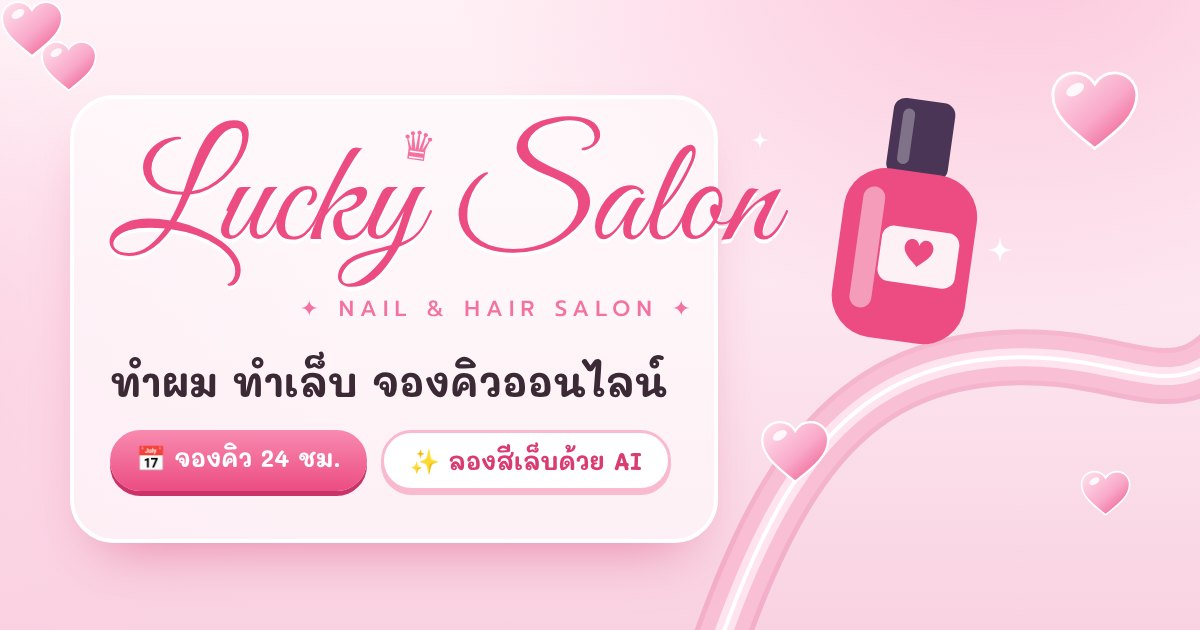
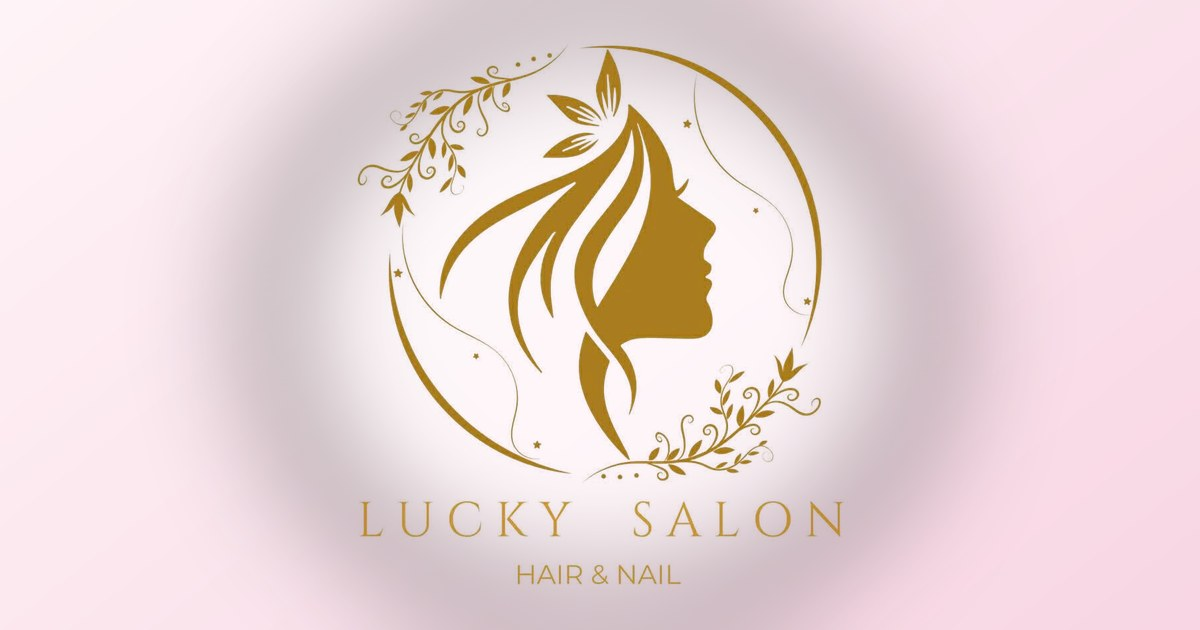
ใส่โลโก้จริงของร้าน (ตัดพื้นหลังแล้ว) ทั้งเว็บ
- logo-mark.png (ตราอย่างเดียว) และ logo-full.png (มีชื่อร้าน) ตัดพื้นหลังครีมออกเป็นโปร่งใส
- หัวเว็บ/ท้ายเว็บ: ตราอยู่หน้าชื่อ "Lucky Salon" ตัวเขียน บรรทัดรองเป็น "Hair & Nail Salon" ตามโลโก้
- หน้าเปิด (splash): ใช้ตราจริงแทนมงกุฎ
- favicon, apple-touch-icon, icon-192/512, logo.jpg (ใช้ในหน้าแอดมิน) เป็นตราบนพื้นครีม
- og-image.jpg (รูปตอนแชร์ลิงก์) เป็นโลโก้เต็มบนพื้นชมพู
- บันทึกโลโก้ไว้ใน PRODUCT.md / DESIGN.md

Claude-Session: https://claude.ai/code/session_01Jc27v77ocDtkRMsAGC5uLq

diff --git a/frontend/src/components/BrandLogo.jsx b/frontend/src/components/BrandLogo.jsx
@@ -1,17 +1,18 @@
-import { Crown } from './Decor.jsx'
-// โลโก้ร้าน: ชื่อ Lucky Salon ตัวเขียน มีมงกุฎเล็ก ๆ และบรรทัดรองด้านล่าง
+// โลโก้ร้าน: ตราจริงของร้าน (ผู้หญิงผมยาวในวงกลมใบไม้ สีทอง) + ชื่อ Lucky Salon ตัวเขียน + บรรทัดรอง
 // ใช้ร่วมกันทุกหน้า (หัวกระดาษ ท้ายเว็บ) จะได้หน้าตาเหมือนกันทั้งเว็บ
-export default function BrandLogo({ subtitle = 'Nail & Hair Salon', size = 'md' }) {
-  const word = size === 'sm' ? 'text-[2rem]' : 'text-[1.9rem] sm:text-[2.3rem]'
+// ไฟล์ตรา: public/logo-mark.png (ตัดพื้นหลังแล้ว) และ public/logo-full.png (มีชื่อร้านด้านล่าง)
+export default function BrandLogo({ subtitle = 'Hair & Nail Salon', size = 'md' }) {
+  const word = size === 'sm' ? 'text-[1.9rem]' : 'text-[1.8rem] sm:text-[2.2rem]'
+  const mark = size === 'sm' ? 'h-12 w-12' : 'h-12 w-12 sm:h-14 sm:w-14'
   return (
-    <span className="relative inline-flex flex-col items-start leading-none select-none">
-      <span aria-hidden="true" className="absolute -top-2.5 left-[62%] w-4 text-rose-400 rotate-[8deg]"><Crown className="w-full" /></span>
-      <span className={`font-script ${word} text-[#D6336C] drop-shadow-[0_2px_0_rgba(255,255,255,0.9)]`}>Lucky Salon</span>
-      {subtitle && (
-        <span className="mt-0.5 ml-auto pr-1 text-[11px] text-[#7A4A5E] whitespace-nowrap">
-          {subtitle}
-        </span>
-      )}
+    <span className="inline-flex items-center gap-2 leading-none select-none">
+      <img src="/logo-mark.png" alt="" aria-hidden="true" width="56" height="56" className={`${mark} shrink-0 drop-shadow-[0_2px_4px_rgba(255,255,255,0.9)]`} />
+      <span className="inline-flex flex-col items-start">
+        <span className={`font-script ${word} text-[#D6336C] drop-shadow-[0_2px_0_rgba(255,255,255,0.9)]`}>Lucky Salon</span>
+        {subtitle && (
+          <span className="mt-0.5 ml-auto pr-1 text-[11px] text-[#7A4A5E] whitespace-nowrap">{subtitle}</span>
+        )}
+      </span>
     </span>
   )
 }

diff --git a/frontend/src/components/SplashIntro.jsx b/frontend/src/components/SplashIntro.jsx
@@ -1,5 +1,5 @@
 import { useEffect, useState } from 'react'
-import { Crown, SolidHeart } from './Decor.jsx'
+import { SolidHeart } from './Decor.jsx'
 
 // ฉากเปิดเว็บ: ชื่อร้านค่อย ๆ เขียนออกมา มีมงกุฎและหัวใจลอย แล้วจางหายไปเอง (~2.2 วินาที)
 // - แสดงครั้งเดียวต่อการเปิดเว็บ (จำใน sessionStorage) จะได้ไม่รำคาญเวลาเปลี่ยนหน้า
@@ -65,12 +65,12 @@ export default function SplashIntro() {
         </span>
       ))}
 
-      <span className="lucky-splash__crown w-11 sm:w-14 text-[#D6336C]"><Crown className="w-full" /></span>
+      <img src="/logo-mark.png" alt="" aria-hidden="true" className="lucky-splash__crown h-28 w-28 sm:h-36 sm:w-36 drop-shadow-[0_6px_18px_rgba(255,255,255,0.9)]" />
       <p className="lucky-splash__word mt-1 font-script text-6xl sm:text-8xl text-berry leading-tight px-4 pb-2 drop-shadow-[0_4px_12px_rgba(255,255,255,0.8)]">
         Lucky Salon
       </p>
       <p className="lucky-splash__tag mt-2 text-sm sm:text-base text-[#7A4A5E]">
-        Nail &amp; Hair Salon
+        Hair &amp; Nail Salon
       </p>
     </div>
   )

diff --git a/PRODUCT.md b/PRODUCT.md
@@ -55,7 +55,7 @@ The site succeeds when a visitor goes from "I like this design" to a confirmed b
 
 ## Brand Commitments
 
-- **Name:** "Lucky Salon", with the subtitle "Nail & Hair Salon" and a small crown over a script wordmark. Never "Nailly"; that name appears in early mockups only.
+- **Name and logo:** "Lucky Salon", subtitle "Hair & Nail". The owner supplied the real logo on 2026-11-26: a gold line-art woman in profile with long flowing hair, inside a circle with leafy branches. The cut-out files are `frontend/public/logo-mark.png` (emblem only) and `frontend/public/logo-full.png` (with the name). Use these files and never redraw the logo. The site shows the emblem next to the script wordmark. Never "Nailly"; that name appears in early mockups only.
 - **Visual reference made binding by the owner:** the pink "Nailly" mockup and the Lucky Salon services mockup supplied in the conversation of 2026-11-25. They show:
   - a dreamy pink salon photo backdrop with frosted-glass cards;
   - a pill navigation bar with icons;

diff --git a/DESIGN.md b/DESIGN.md
@@ -33,6 +33,16 @@ A dreamy pink nail salon, seen through frosted glass. A softly blurred photo of 
 - **Prompt**: body text.
 - **Great Vibes** (`font-script`): Latin-only accent lines such as "It's your style" and the logo. Never "AI" in script.
 
+## Logo
+
+- **Source:** the owner's gold emblem, cut out of its background, at `public/logo-mark.png` (emblem only) and `public/logo-full.png` (with the name).
+- **Where it is used:**
+  - `BrandLogo` places the emblem beside the pink script "Lucky Salon".
+  - The splash shows the emblem large.
+  - The favicon and app icons use the emblem on cream (#FFF8F0).
+  - `og-image.jpg` uses the full logo.
+- **Colour:** the gold (#AB7D1F) appears only in the logo and is not used as a UI colour.
+
 ## Decoration (`src/components/Decor.jsx`)
 
 The decorations are all hand-authored SVG:
